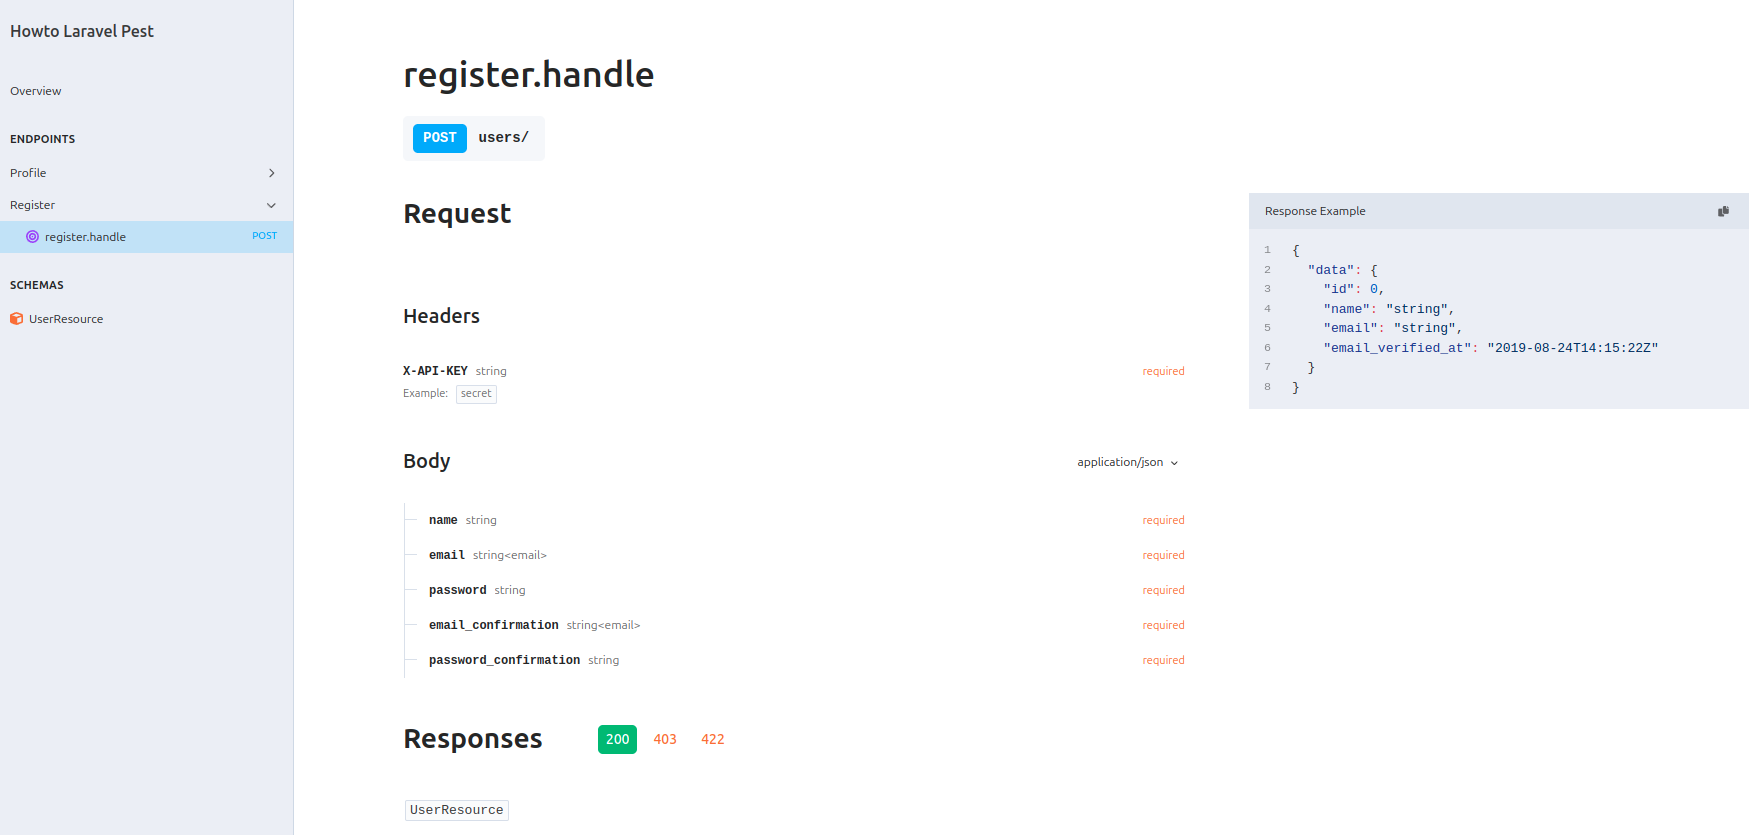
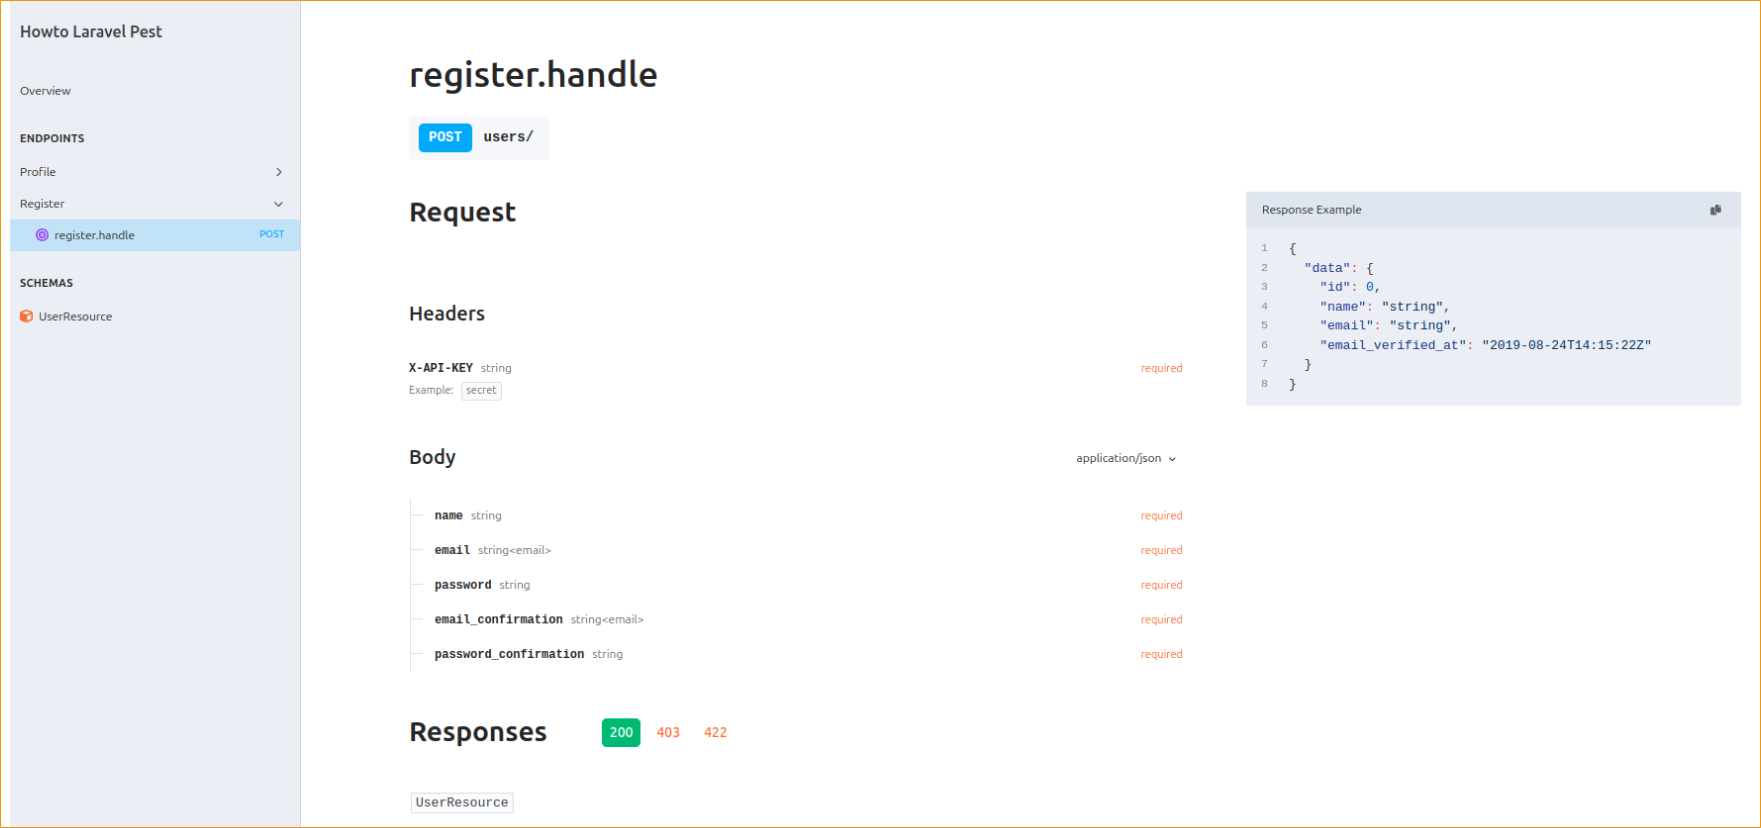
change screenshot img

diff --git a/README.md b/README.md
@@ -1,7 +1,7 @@
 Howto Laravel Pest
 ---
 
-![Screenshot](docs/images/screenshot.png) {width=100%, border: 2px solid #ccc, padding: 10px}
+![Screenshot](docs/images/screenshot.png)
 
 + phpcs
 ```shell
